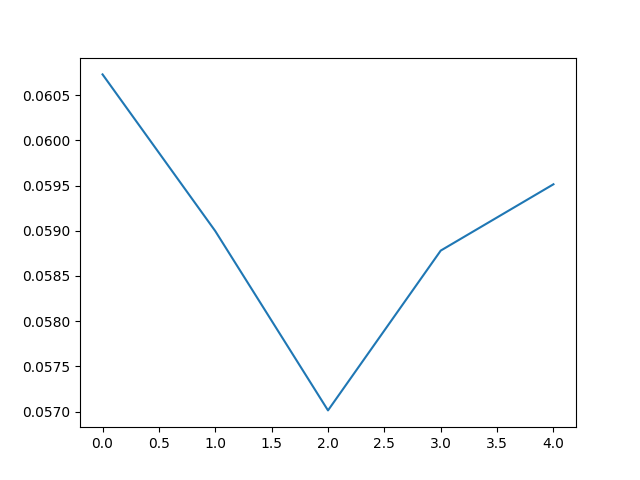
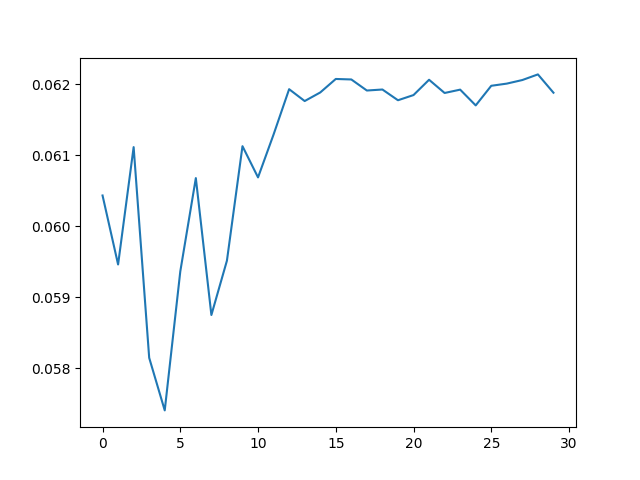
update fmp

diff --git a/train_seg.py b/train_seg.py
@@ -40,7 +40,7 @@ class DatasetImp(fmp.GetDatasetSgmABC):
 
 class OptimizationImp(fmp.GetOptimizationABC):
     batch_size = 16
-    epochs = 5
+    epochs = 30
     lr = 0.001
     gpu = 1
     optimizer = torch.optim.Adam
